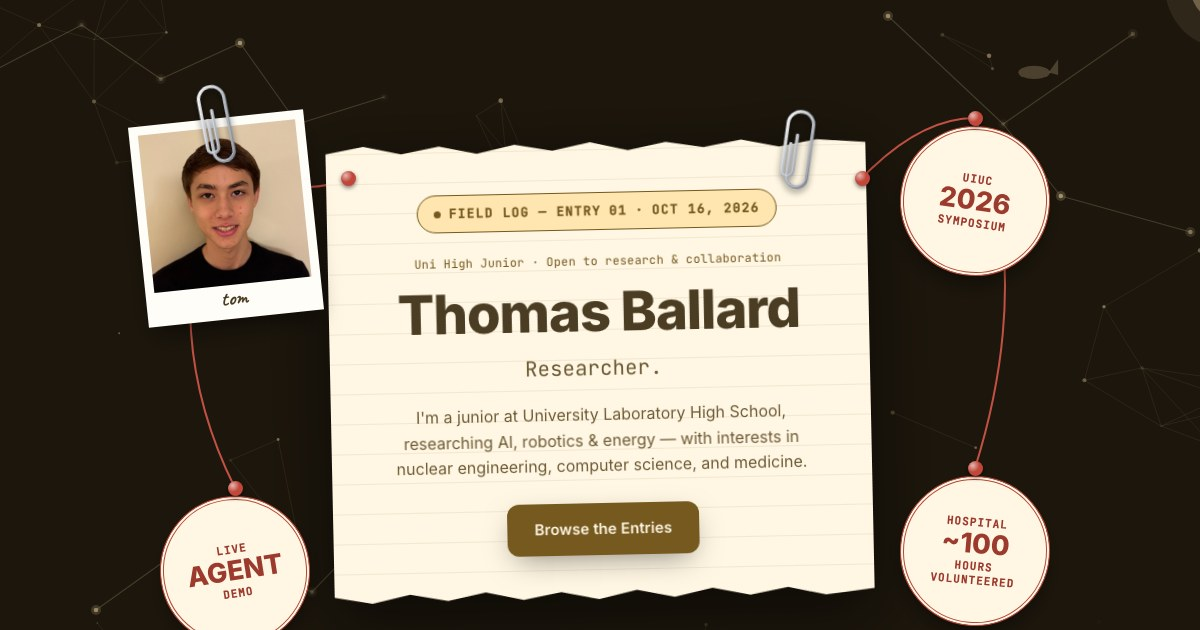
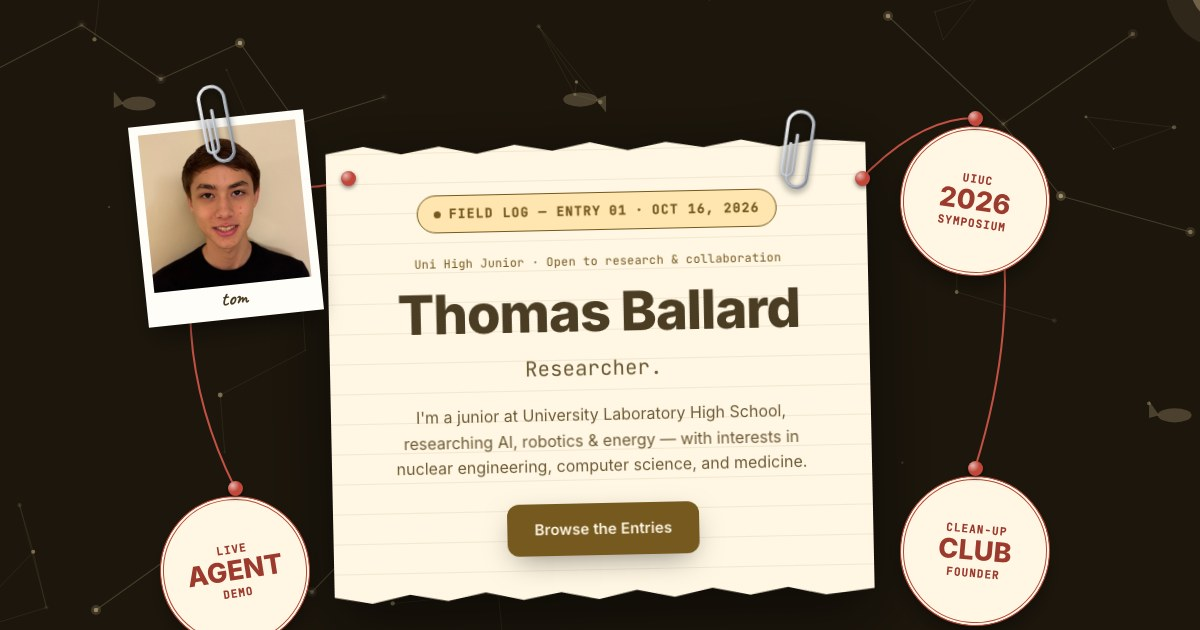
Hero: replace hospital-hours stamp with a clean-up club stamp

diff --git a/index.html b/index.html
@@ -122,7 +122,7 @@
 
       <div class="badge b1"><div><small>UIUC</small><b>2026</b><small>SYMPOSIUM</small></div></div>
       <div class="badge b2"><div><small>LIVE</small><b>AGENT</b><small>DEMO</small></div></div>
-      <div class="badge b3"><div><small>HOSPITAL</small><b>~100</b><small>HOURS VOLUNTEERED</small></div></div>
+      <div class="badge b3"><div><small>CLEAN-UP</small><b>CLUB</b><small>FOUNDER</small></div></div>
     </div>
     <a href="#about" class="scroll-indicator" aria-label="Scroll down">
       <span></span>
